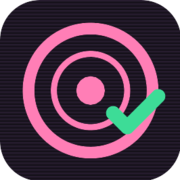
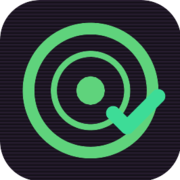
Add files via upload

Changed region(s): [[0.1111, 0.1111, 0.8889, 0.8889], [0.2778, 0.2778, 0.75, 0.75], [0.4167, 0.4167, 0.5833, 0.5833]]

diff --git a/index.html b/index.html
@@ -12,7 +12,7 @@
 <style>
   :root{
     --bg:#120f16; --panel:#1b1721; --panel2:#231e2b; --line:#332c3d;
-    --txt:#efe9f3; --dim:#a596b3; --acc:#ff7eb6; --ok:#3ddc97; --warn:#ffb95e;
+    --txt:#efe9f3; --dim:#a596b3; --acc:#5fd37c; --ok:#3ddc97; --warn:#ffb95e;
     --plan:#b98cff; --drop:#ff8a4c; --epic:#ffd84d; --r:14px;
   }
   :root{color-scheme:dark}
@@ -42,7 +42,7 @@
   #q{flex:1 1 170px}
   .btn{background:var(--panel2); border:1px solid var(--line); border-radius:10px; padding:8px 12px; cursor:pointer; white-space:nowrap}
   .btn:hover{background:#2e2738}
-  .btn.p{background:var(--acc); border-color:var(--acc); color:#2a0a1a; font-weight:600}
+  .btn.p{background:var(--acc); border-color:var(--acc); color:#07210f; font-weight:600}
   .btn.p:hover{filter:brightness(1.08)}
   .btn.sm{padding:4px 9px; font-size:12.5px; border-radius:8px}
   .btn.gh{background:transparent}
@@ -183,7 +183,7 @@
   .play{width:24px; height:24px; border-radius:50%; border:1px solid var(--line); background:transparent;
         color:var(--dim); font-size:10px; line-height:1; cursor:pointer; flex:none; padding:0}
   .play:hover{border-color:var(--acc); color:var(--acc)}
-  .play.on{background:var(--acc); border-color:var(--acc); color:#2a0a1a}
+  .play.on{background:var(--acc); border-color:var(--acc); color:#07210f}
   .play:disabled{opacity:.25; cursor:default}
   .disc{color:var(--dim); font-size:11px; text-transform:uppercase; letter-spacing:.4px; padding:6px 3px 2px}
   .nostruct{color:var(--dim); font-size:12.3px; padding:4px 2px}
@@ -216,8 +216,9 @@
   .ri .s{color:var(--dim); font-size:12px}
   .src{font-size:10px; padding:1px 6px; border-radius:99px; margin-left:6px;
        border:1px solid currentColor; vertical-align:1px; font-weight:600; letter-spacing:.3px}
-  .src.itunes{color:#f28ab8}
+  .src.itunes{color:#8fd6a0}
   .src.mb{color:#c9a7ff}
+  .src.deezer{color:#f0b36a}
   .hint{color:var(--dim); font-size:12.3px; margin-top:8px}
   .toast{position:fixed; left:50%; bottom:20px; transform:translate(-50%,14px); opacity:0;
     background:#efe9f3; color:#161119; padding:9px 15px; border-radius:99px; font-size:13.5px;
@@ -278,7 +279,7 @@
       <div><b>Trenta secondi per ricordare</b>
         Accanto a ogni brano un ▶ con l'anteprima, per capire al volo di quale canzone si tratta.</div>
       <div><b>I dati arrivano da soli</b>
-        Cerchi artista e titolo e scaletta e copertina arrivano da Apple Music o da MusicBrainz.
+        Cerchi artista e titolo e scaletta e copertina arrivano da Apple Music, Deezer o MusicBrainz.
         Stesso account di tvlog, su tutti i tuoi dispositivi.</div>
     </div>
     <div class="bact">
@@ -313,11 +314,12 @@
 <footer style="padding:4px 14px 70px; color:#7d6f8a; font-size:11.5px; line-height:1.6">
   Copertine, scalette e anteprime da
   <a href="https://music.apple.com/it/" target="_blank" rel="noopener" style="color:#7d6f8a">Apple Music</a>
-  tramite l'iTunes Search API (Apple non è coinvolta in questo sito) e da
+  tramite l'iTunes Search API (Apple non è coinvolta in questo sito), da
+  <a href="https://www.deezer.com/" target="_blank" rel="noopener" style="color:#7d6f8a">Deezer</a> e da
   <a href="https://musicbrainz.org/" target="_blank" rel="noopener" style="color:#7d6f8a">MusicBrainz</a> /
   <a href="https://coverartarchive.org/" target="_blank" rel="noopener" style="color:#7d6f8a">Cover Art Archive</a>.<br>
   Segnalazioni e suggerimenti: <span class="posta"></span>
-  · <span title="Serve a capire se un dispositivo sta usando una versione vecchia">versione del 6 novembre 2026</span>
+  · <span title="Serve a capire se un dispositivo sta usando una versione vecchia">versione del 6 novembre 2026 · c</span>
 </footer>
 
 <div class="ov" id="ovAdd">
@@ -326,7 +328,9 @@
     <div class="rowf">
       <input id="sq" class="fld" placeholder="Artista e titolo, i risultati arrivano da soli…" autocomplete="off">
       <select id="prov" class="fld" style="flex:none; max-width:170px" title="Fonte da interrogare">
+        <option value="tutte">Tutte le fonti</option>
         <option value="itunes">Apple Music</option>
+        <option value="deezer">Deezer</option>
         <option value="mb">MusicBrainz</option>
       </select>
     </div>
@@ -399,7 +403,7 @@
 (function(){
 "use strict";
 var KEY="musiclog-v1", CFG="musiclog-cfg";
-var db={shows:[]}, cfg={prov:"itunes"};
+var db={shows:[]}, cfg={prov:"tutte"};
 
 function loadCfg(){ try{ var s=JSON.parse(localStorage.getItem(CFG)||"null")||{}; if(s.prov) cfg.prov=s.prov }catch(e){} }
 function saveCfg(){ try{ localStorage.setItem(CFG,JSON.stringify(cfg)) }catch(e){} }
@@ -463,7 +467,7 @@ function votati(s){ return Object.keys(s.tr||{}).filter(function(k){ return s.tr
 function migrate(s){
   var o={ id:s.id||uid(), artist:String(s.artist||""), title:String(s.title||"senza titolo"), year:s.year||"",
     cover:s.cover||"", url:s.url||"", genre:s.genre||"",
-    src:(s.src&&s.src.id&&(s.src.p==="itunes"||s.src.p==="mb"))?{p:s.src.p,id:s.src.id}:null,
+    src:(s.src&&s.src.id&&(s.src.p==="itunes"||s.src.p==="mb"||s.src.p==="deezer"))?{p:s.src.p,id:s.src.id,st:s.src.st||"it"}:null,
     tracks:Array.isArray(s.tracks)?s.tracks.map(function(t,i){
       return {n:Number(t.n)||i+1, disc:Number(t.disc)||1, name:String(t.name||""), ms:Number(t.ms)||0, prev:t.prev||""} }):[],
     tr:(s.tr&&typeof s.tr==="object")?s.tr:{},
@@ -586,7 +590,7 @@ document.getElementById("bMenu").onclick=function(){ document.querySelector(".to
 })();
 
 function webUrl(s){
-  if(s.url) return { href:s.url, tip:s.src&&s.src.p==="mb"?"Apri la scheda su MusicBrainz":"Apri su Apple Music" };
+  if(s.url) return { href:s.url, tip:s.src&&s.src.p==="mb"?"Apri la scheda su MusicBrainz":s.src&&s.src.p==="deezer"?"Apri su Deezer":"Apri su Apple Music" };
   if(s.src && s.src.p==="mb") return { href:"https://musicbrainz.org/release-group/"+s.src.id, tip:"Apri la scheda su MusicBrainz" };
   return null;
 }
@@ -627,7 +631,7 @@ function detailHtml(s){
     '<textarea class="fld" rows="4" data-f="tracks" data-i="'+s.id+'">'+esc(s.tracks.map(function(t){ return t.name }).join("\n"))+'</textarea>'+
     '<label>Nota</label><textarea class="fld" rows="2" data-f="note" data-i="'+s.id+'" placeholder="Dove l\'hai scoperto, cosa ti ricorda…">'+esc(s.note||"")+'</textarea>'+
     '<div class="fin">Aggiunto il '+new Date(s.added).toLocaleDateString("it-IT")+
-    (s.src?' · fonte '+(s.src.p==="mb"?"MusicBrainz":"Apple Music"):' · inserito a mano')+
+    (s.src?' · fonte '+nomeFonte(s.src.p):' · inserito a mano')+
     (w?' · <a href="'+esc(w.href)+'" target="_blank" rel="noopener" style="color:var(--acc)">scheda</a>':'')+'</div>'+
     '</div>';
 }
@@ -758,25 +762,64 @@ function getJSON(url,opt){
   return fetch(url,opt).then(function(r){ if(!r.ok) throw new Error("http "+r.status); return r.json() });
 }
 /* -- Apple Music / iTunes: senza chiave, negozio italiano -- */
-function itSearch(q){
-  return getJSON("https://itunes.apple.com/search?term="+encodeURIComponent(q)+"&entity=album&country=it&limit=20")
+/* Il negozio italiano non ha tutto (metà dei Metallica, per dire): si
+   interrogano insieme quello italiano e quello americano, si tolgono i
+   doppioni e si riordina per pertinenza, perché l'ordine di Apple premia
+   i singoli e le cover rispetto all'album che stai cercando.            */
+function norm(s){ return String(s||"").toLowerCase().replace(/[’']/g,"").replace(/[^a-z0-9àèéìòù]+/g," ").trim() }
+function pertinenza(q,a){
+  var tok=norm(q).split(" ").filter(function(w){ return w.length>1 }), hay=norm(a.artist+" "+a.title), p=0;
+  tok.forEach(function(w){ if(hay.indexOf(w)>-1) p+=10/tok.length });
+  if(norm(a.title).indexOf(norm(q))>-1 || (norm(a.artist)+" "+norm(a.title)).indexOf(norm(q))>-1) p+=3;
+  var art=norm(a.artist), nq=norm(q);
+  // hai scritto proprio quell'artista (e non solo: "kind of blue" non premia un gruppo che si chiama così)
+  if(art && nq.indexOf(art)>-1 && nq.replace(art,"").trim()) p+=3;
+  if(/\b(violin|piano|orchestra|quartet|symphon\w*|strings|guitar|lofi|lo-fi|chill|sleep|baby|kids|bambini)\b|8.bit/i.test(a.title) && !/\b(piano|guitar|orchestra)\b/.test(nq)) p-=4;
+  if(a.n!=null && a.n<5) p-=4;                                          // singoli ed EP minuscoli
+  if(/\b(single|ep|covers?|covered|instrumental|karaoke|tribute|lullab\w*|reimagined|soundfont)\b|in the style|plays |performs|made famous|originally performed|for babies|string quartet/i.test(a.title)) p-=6;
+  if(/various|artisti vari|karaoke|tribute|orchestra plays/i.test(a.artist)) p-=4;
+  if(/\blive\b|remix/i.test(a.title)) p-=1;
+  if(a.tipo && /live|compilation|remix|soundtrack|demo/i.test(a.tipo)) p-=2;
+  if(a.p==="deezer" && a.rank!=null) p+=Math.max(0,3-a.rank)+(a.rank<10?.5:0);   // Deezer ordina per popolarità: fidarsi
+  return p;
+}
+/* stesso disco in edizioni diverse = un solo risultato: via le parole da ristampa */
+function chiave(a){
+  return norm(a.artist)+"|"+norm(a.title).replace(/\b(remaster(ed)?|expanded|deluxe|super|bonus|edition|anniversary|version|digital|mix|\d{4})\b/g," ").replace(/\s+/g," ").trim();
+}
+function ordinaPertinenza(q,lista){
+  lista.forEach(function(a,i){ a._p=pertinenza(q,a); a._i=i });
+  return lista.sort(function(a,b){ return b._p-a._p || a._i-b._i });
+}
+function itStore(q,st){
+  return getJSON("https://itunes.apple.com/search?term="+encodeURIComponent(q)+"&entity=album&country="+st+"&limit=25")
     .then(function(j){
       return (j.results||[]).map(function(a){
-        return { p:"itunes", id:a.collectionId, artist:a.artistName, title:a.collectionName,
+        return { p:"itunes", id:a.collectionId, st:st, artist:a.artistName, title:a.collectionName,
                  year:(a.releaseDate||"").slice(0,4), cover:(a.artworkUrl100||"").replace("100x100bb","600x600bb"),
                  thumb:a.artworkUrl100||"", n:a.trackCount, url:a.collectionViewUrl||"", genre:a.primaryGenreName||"" };
       });
-    });
+    }).catch(function(){ return [] });
 }
-function itAlbum(id){
-  return getJSON("https://itunes.apple.com/lookup?id="+encodeURIComponent(id)+"&entity=song&country=it").then(function(j){
+function itSearch(q){
+  return Promise.all([itStore(q,"it"),itStore(q,"us")]).then(function(r){
+    var visti={}, tutti=[];
+    r[0].concat(r[1]).forEach(function(a){
+      var k=chiave(a);
+      if(visti[k]) return; visti[k]=1; tutti.push(a);
+    });
+    return ordinaPertinenza(q,tutti).slice(0,25);
+  });
+}
+function itAlbum(id,st){
+  return getJSON("https://itunes.apple.com/lookup?id="+encodeURIComponent(id)+"&entity=song&country="+(st||"it")).then(function(j){
     var r=j.results||[], c=r.filter(function(x){ return x.wrapperType==="collection" })[0]||{};
     var tracks=r.filter(function(x){ return x.wrapperType==="track" && x.kind==="song" })
       .sort(function(a,b){ return (a.discNumber||1)-(b.discNumber||1) || (a.trackNumber||0)-(b.trackNumber||0) })
       .map(function(t){ return {n:t.trackNumber||0, disc:t.discNumber||1, name:t.trackName||"", ms:t.trackTimeMillis||0, prev:t.previewUrl||""} });
     return { artist:c.artistName||"", title:c.collectionName||"", year:(c.releaseDate||"").slice(0,4),
              cover:(c.artworkUrl100||"").replace("100x100bb","600x600bb"), url:c.collectionViewUrl||"",
-             genre:c.primaryGenreName||"", src:{p:"itunes",id:id}, tracks:tracks };
+             genre:c.primaryGenreName||"", src:{p:"itunes",id:id,st:st||"it"}, tracks:tracks };
   });
 }
 /* -- MusicBrainz: archivio libero; una richiesta al secondo per buona educazione -- */
@@ -786,11 +829,11 @@ function mbSearch(q){
     .then(function(j){
       return (j["release-groups"]||[]).map(function(g){
         return { p:"mb", id:g.id, artist:((g["artist-credit"]||[]).map(function(c){ return c.name+(c.joinphrase||"") }).join("")),
-                 title:g.title, year:(g["first-release-date"]||"").slice(0,4),
+                 title:g.title, year:(g["first-release-date"]||"").slice(0,4), tipo:(g["secondary-types"]||[]).join(" "),
                  cover:"https://coverartarchive.org/release-group/"+g.id+"/front-500",
                  thumb:"https://coverartarchive.org/release-group/"+g.id+"/front-250", n:null, url:"https://musicbrainz.org/release-group/"+g.id };
       });
-    });
+    }).then(function(l){ return ordinaPertinenza(q,l) });
 }
 function mbAlbum(g){
   // la prima pubblicazione ufficiale del gruppo, con i suoi brani
@@ -809,10 +852,58 @@ function mbAlbum(g){
       return { artist:g.artist, title:g.title, year:g.year, cover:g.cover, url:g.url, genre:"", src:{p:"mb",id:g.id}, tracks:x.tracks };
     });
 }
+/* -- Deezer: senza chiave, ma l'API non accetta chiamate dirette dal browser:
+      si passa per "jsonp", cioè un piccolo script che consegna la risposta -- */
+function jsonp(url){
+  return new Promise(function(res,rej){
+    var cb="dz"+Date.now().toString(36)+Math.floor(Math.random()*1e6), s=document.createElement("script"), fatto=false;
+    window[cb]=function(d){ fatto=true; delete window[cb]; s.remove(); if(d&&d.error) rej(new Error(d.error.message||"deezer")); else res(d) };
+    s.src=url+(url.indexOf("?")>-1?"&":"?")+"output=jsonp&callback="+cb;
+    s.onerror=function(){ delete window[cb]; s.remove(); rej(new Error("deezer")) };
+    document.head.appendChild(s);
+    setTimeout(function(){ if(!fatto){ delete window[cb]; s.remove(); rej(new Error("timeout")) } },9000);
+  });
+}
+function dzSearch(q){
+  return jsonp("https://api.deezer.com/search/album?q="+encodeURIComponent(q)+"&limit=25").then(function(j){
+    return (j.data||[]).map(function(a,i){
+      return { p:"deezer", id:a.id, rank:i, artist:(a.artist&&a.artist.name)||"", title:a.title, year:"",
+               cover:a.cover_xl||a.cover_big||"", thumb:a.cover_medium||a.cover||"", n:a.nb_tracks, tipo:a.record_type||"",
+               url:a.link||"", genre:"" };
+    });
+  }).catch(function(){ return [] });
+}
+function dzAlbum(a){
+  return Promise.all([jsonp("https://api.deezer.com/album/"+a.id), jsonp("https://api.deezer.com/album/"+a.id+"/tracks?limit=500")])
+    .then(function(r){
+      var al=r[0]||{}, tr=(r[1]&&r[1].data)||[];
+      return { artist:(al.artist&&al.artist.name)||a.artist, title:al.title||a.title, year:(al.release_date||"").slice(0,4),
+               cover:al.cover_xl||a.cover, url:al.link||a.url, genre:(al.genres&&al.genres.data&&al.genres.data[0]&&al.genres.data[0].name)||"",
+               src:{p:"deezer",id:a.id},
+               tracks:tr.map(function(x,i){ return {n:x.track_position||i+1, disc:x.disk_number||1, name:x.title||"", ms:(x.duration||0)*1000, prev:x.preview||""} }) };
+    });
+}
+function nomeFonte(p){ return p==="mb"?"MusicBrainz":p==="deezer"?"Deezer":"Apple Music" }
+/* ricerca combinata: Deezer, Apple Italia e Apple USA insieme, un solo
+   elenco senza doppioni e in ordine di pertinenza. Deezer per primo perché
+   ordina per popolarità vera; Apple completa dove Deezer non arriva.      */
+function cercaTutte(q){
+  return Promise.all([dzSearch(q),itStore(q,"it"),itStore(q,"us")]).then(function(r){
+    var visti={}, tutti=[];
+    r[0].concat(r[1],r[2]).forEach(function(a){
+      var k=chiave(a);
+      if(visti[k]) return; visti[k]=1; tutti.push(a);
+    });
+    return ordinaPertinenza(q,tutti).slice(0,30);
+  });
+}
 function hintFonte(){
-  return cfg.prov==="mb"
-    ? "MusicBrainz è l'archivio libero: copre anche edizioni rare, ma senza anteprime audio."
-    : "Apple Music: scalette, copertine e anteprime di 30 secondi. Se un album manca, prova MusicBrainz.";
+  return {
+    tutte:"Apple Music e Deezer insieme, con MusicBrainz in coda se serve. Scalette, copertine e anteprime di 30 secondi.",
+    itunes:"Apple Music (negozio italiano e americano): scalette, copertine e anteprime.",
+    deezer:"Deezer: catalogo molto ampio, scalette, copertine e anteprime.",
+    mb:"MusicBrainz è l'archivio libero: copre anche edizioni rare, ma senza anteprime audio."
+  }[cfg.prov]||"";
 }
 function cerca(){
   var q=document.getElementById("sq").value.trim(), res=document.getElementById("res"), hint=document.getElementById("hintProv");
@@ -820,14 +911,22 @@ function cerca(){
   if(q.length<2){ res.innerHTML=""; return }
   var mio=++cerca._n;
   res.innerHTML='<div class="empty">Cerco…</div>';
-  (cfg.prov==="mb"?mbSearch(q):itSearch(q)).then(function(lista){
+  var fonte={mb:mbSearch, itunes:itSearch, deezer:function(x){ return dzSearch(x).then(function(l){ return ordinaPertinenza(x,l) }) }}[cfg.prov]||cercaTutte;
+  fonte(q).then(function(lista){
+    // Apple non ha tutto: se nessun risultato è davvero convincente, si
+    // aggiungono in coda quelli di MusicBrainz, senza dover cambiare fonte
+    var migliore=lista.length?lista[0]._p:0;
+    if(cfg.prov!=="mb" && migliore<9) return mbSearch(q).then(function(l2){
+      return lista.concat(l2.filter(function(a){ return a._p>=6 }).slice(0,8)); }).catch(function(){ return lista });
+    return lista;
+  }).then(function(lista){
     if(mio!==cerca._n) return;
     cerca._ultimi=lista;
     if(!lista.length){ res.innerHTML='<div class="empty">Nessun risultato'+(cfg.prov==="mb"?"":" — prova con MusicBrainz")+'</div>'; return }
     res.innerHTML=lista.map(function(a,i){
       return '<button class="ri" data-r="'+i+'"><img src="'+esc(a.thumb)+'" alt="" loading="lazy" onerror="this.style.visibility=\'hidden\'">'+
         '<span style="flex:1;min-width:0"><span class="n">'+esc(a.title)+'</span>'+
-        '<span class="src '+a.p+'">'+(a.p==="mb"?"MusicBrainz":"Apple Music")+'</span><br>'+
+        '<span class="src '+a.p+'">'+nomeFonte(a.p)+'</span><br>'+
         '<span class="s">'+esc(a.artist)+(a.year?" · "+esc(a.year):"")+(a.n?" · "+a.n+" brani":"")+'</span></span></button>';
     }).join("");
   }).catch(function(){ if(mio===cerca._n) res.innerHTML='<div class="empty">Fonte non raggiungibile</div>' });
@@ -838,7 +937,7 @@ document.getElementById("res").addEventListener("click",function(e){
   var b=e.target.closest("[data-r]"); if(!b) return;
   var a=cerca._ultimi[Number(b.dataset.r)]; if(!a) return;
   b.querySelector(".n").textContent="Scarico la scaletta…";
-  (a.p==="mb"?mbAlbum(a):itAlbum(a.id)).then(function(o){
+  (a.p==="mb"?mbAlbum(a):a.p==="deezer"?dzAlbum(a):itAlbum(a.id,a.st)).then(function(o){
     if(!o.title) o.title=a.title; if(!o.artist) o.artist=a.artist; if(!o.year) o.year=a.year; if(!o.cover) o.cover=a.cover;
     addShow(o);
   }).catch(function(){ toast("Non riesco a scaricare la scaletta"); addShow({artist:a.artist,title:a.title,year:a.year,cover:a.cover,url:a.url,src:{p:a.p,id:a.id},tracks:[]}) });
@@ -1093,7 +1192,7 @@ document.addEventListener("change",function(e){
 document.getElementById("fvoto").addEventListener("change",render);
 document.addEventListener("keydown",function(e){ if(e.key==="Escape"){ ovAdd.classList.remove("on"); ovAcc.classList.remove("on") } });
 loadCfg();
-document.getElementById("prov").value=cfg.prov||"itunes";
+document.getElementById("prov").value=cfg.prov||"tutte";
 loadSess();
 try{ var tsalv=localStorage.getItem(KEY+":tab"); if(COLS.indexOf(tsalv)>-1) tabAttiva=tsalv }catch(e){}
 try{
